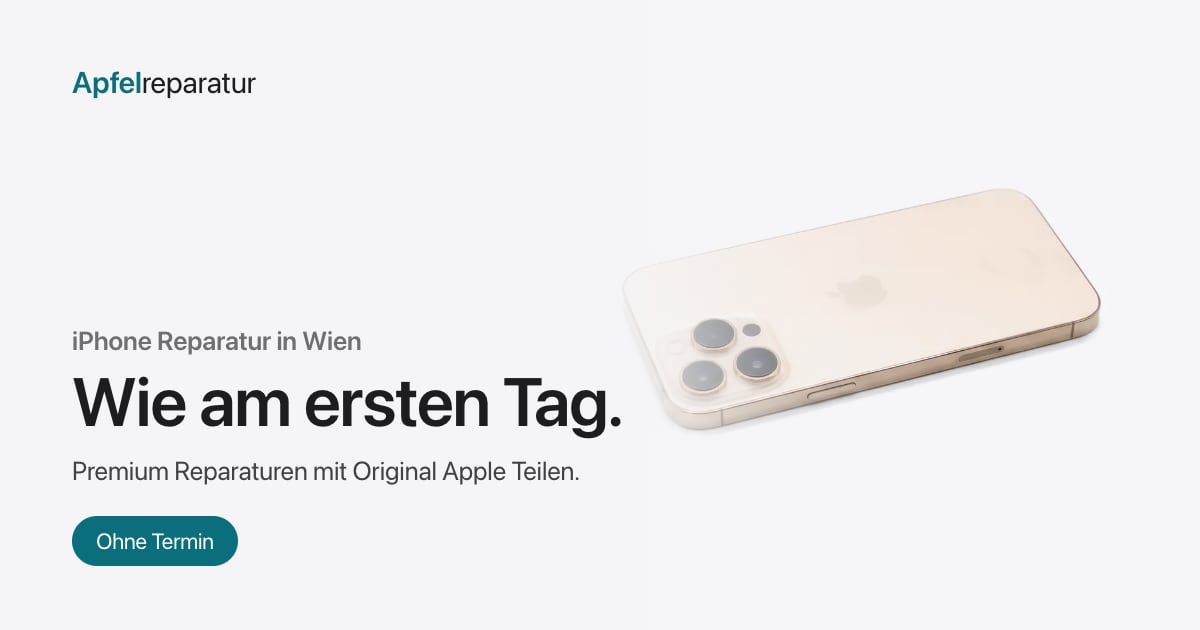
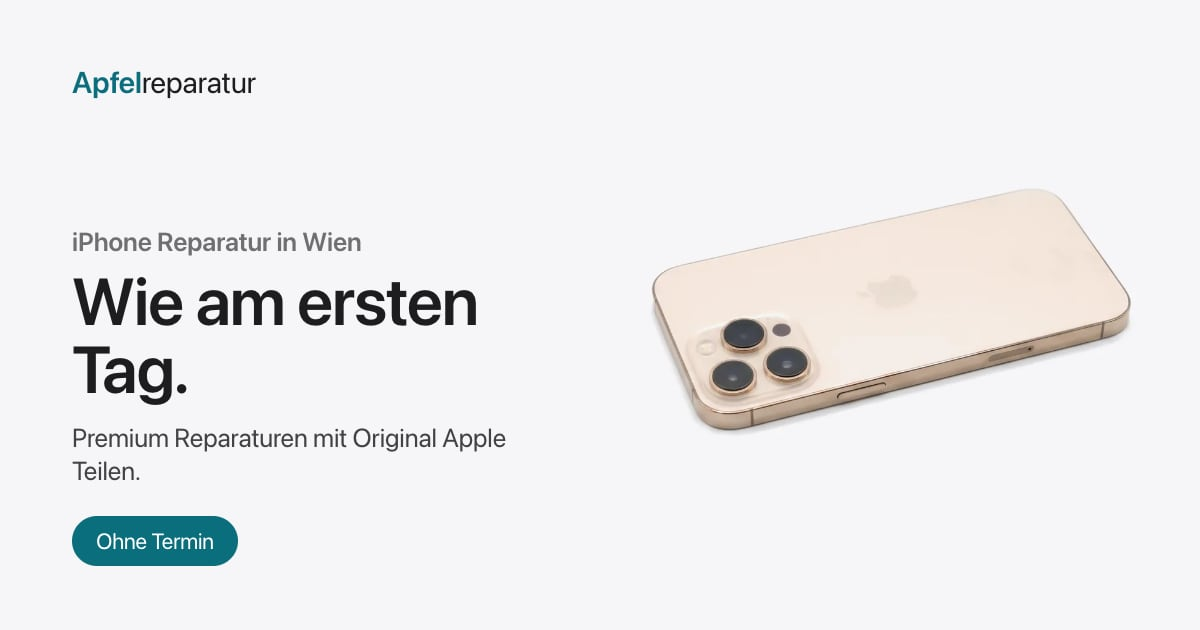
feat: light link previews matching the redesign
All cards on --gray, no dark backgrounds or photo fades. Seamless
product shots sit on the grey; other photos get a rounded card like
the page heroes. Preview URLs move to ?v=3.

diff --git a/scripts/og/card.html b/scripts/og/card.html
@@ -10,25 +10,21 @@
 		font-family: -apple-system, BlinkMacSystemFont, "Helvetica Neue", Helvetica, Arial, sans-serif;
 		-webkit-font-smoothing: antialiased;
 		letter-spacing: -0.02em;
-		background: #000;
-		color: #f5f5f7;
+		background: #f5f5f7;
+		color: #1d1d1f;
 	}
-	body.light { background: #f5f5f7; color: #1d1d1f; }
-	.photo { position: absolute; inset: 0 0 0 40%; background-size: cover; background-position: center; }
-	.photo::after {
-		content: ""; position: absolute; inset: 0;
-		background: linear-gradient(90deg, #000 0%, rgba(0,0,0,.85) 20%, rgba(0,0,0,.35) 42%, transparent 62%);
-	}
-	.light .photo::after { background: linear-gradient(90deg, #f5f5f7 0%, rgba(245,245,247,.88) 20%, rgba(245,245,247,.35) 42%, transparent 62%); }
-	.copy { position: absolute; left: 72px; top: 64px; bottom: 64px; width: 560px; display: flex; flex-direction: column; }
+	/* Seamless shots share the page grey, so they sit on it whole; others get a rounded card like the page heroes. */
+	.media { position: absolute; top: 48px; right: 48px; bottom: 48px; left: 624px; }
+	.media img { width: 100%; height: 100%; display: block; }
+	.photo img { object-fit: cover; border-radius: 28px; }
+	.seamless { top: 0; right: 0; bottom: 0; left: 540px; }
+	.seamless img { object-fit: cover; }
+	.copy { position: absolute; left: 72px; top: 64px; bottom: 64px; width: 500px; display: flex; flex-direction: column; }
 	.mark { font-size: 30px; font-weight: 400; }
-	.mark b { font-weight: 600; color: #6fd0de; }
-	.light .mark b { color: #0b6e7d; }
-	.eyebrow { margin-top: auto; font-size: 26px; font-weight: 600; color: #86868b; }
-	.light .eyebrow { color: #6e6e73; }
-	h1 { margin-top: 10px; font-size: 68px; line-height: 1.04; font-weight: 600; letter-spacing: -0.015em; }
-	.sub { margin-top: 18px; font-size: 26px; line-height: 1.25; color: #a1a1a6; }
-	.light .sub { color: #424245; }
+	.mark b { font-weight: 600; color: #0b6e7d; }
+	.eyebrow { margin-top: auto; font-size: 26px; font-weight: 600; color: #6e6e73; }
+	h1 { margin-top: 10px; font-size: 66px; line-height: 1.04; font-weight: 600; letter-spacing: -0.015em; }
+	.sub { margin-top: 18px; font-size: 26px; line-height: 1.25; color: #424245; }
 	.pill {
 		margin-top: 30px; align-self: flex-start; padding: 12px 24px; border-radius: 999px;
 		background: #0b6e7d; color: #fff; font-size: 22px;
@@ -36,7 +32,7 @@
 </style>
 </head>
 <body>
-	<div class="photo" id="photo"></div>
+	<div class="media" id="media"><img id="img" alt="" /></div>
 	<div class="copy">
 		<p class="mark"><b>Apfel</b>reparatur</p>
 		<p class="eyebrow" id="eyebrow"></p>
@@ -46,15 +42,16 @@
 	</div>
 	<script>
 		function render(c) {
-			document.body.className = c.light ? "light" : "";
-			document.getElementById("photo").style.backgroundImage = "url(" + c.image + ")";
+			// Seamless photos are #f6f5f8 after webp encoding; match it so the photo edge disappears.
+			document.body.style.background = c.seamless ? "#f6f5f8" : "";
+			document.getElementById("media").className = "media " + (c.seamless ? "seamless" : "photo");
 			for (const k of ["eyebrow", "title", "sub", "pill"]) {
 				const el = document.getElementById(k);
 				el.textContent = c[k] || "";
 				el.style.display = c[k] ? "" : "none";
 			}
+			const img = document.getElementById("img");
 			return document.fonts.ready.then(() => new Promise((r) => {
-				const img = new Image();
 				img.onload = img.onerror = () => r(true);
 				img.src = c.image;
 			}));

diff --git a/src/lib/seo.ts b/src/lib/seo.ts
@@ -44,7 +44,7 @@ export function organizationLd() {
 		name: business.brand,
 		url: SITE,
 		logo: `${SITE}/icon-512.png`,
-		image: `${SITE}/og/default.jpg`,
+		image: `${SITE}/og/default.jpg?v=3`,
 		description: "Unabhängiger Reparaturbetrieb für iPhone, iPad und Mac in Wien, mit Original Apple Teilen, Datenrettung und Datenübertragung.",
 		email: business.email,
 		telephone: intl(business.hotline),
